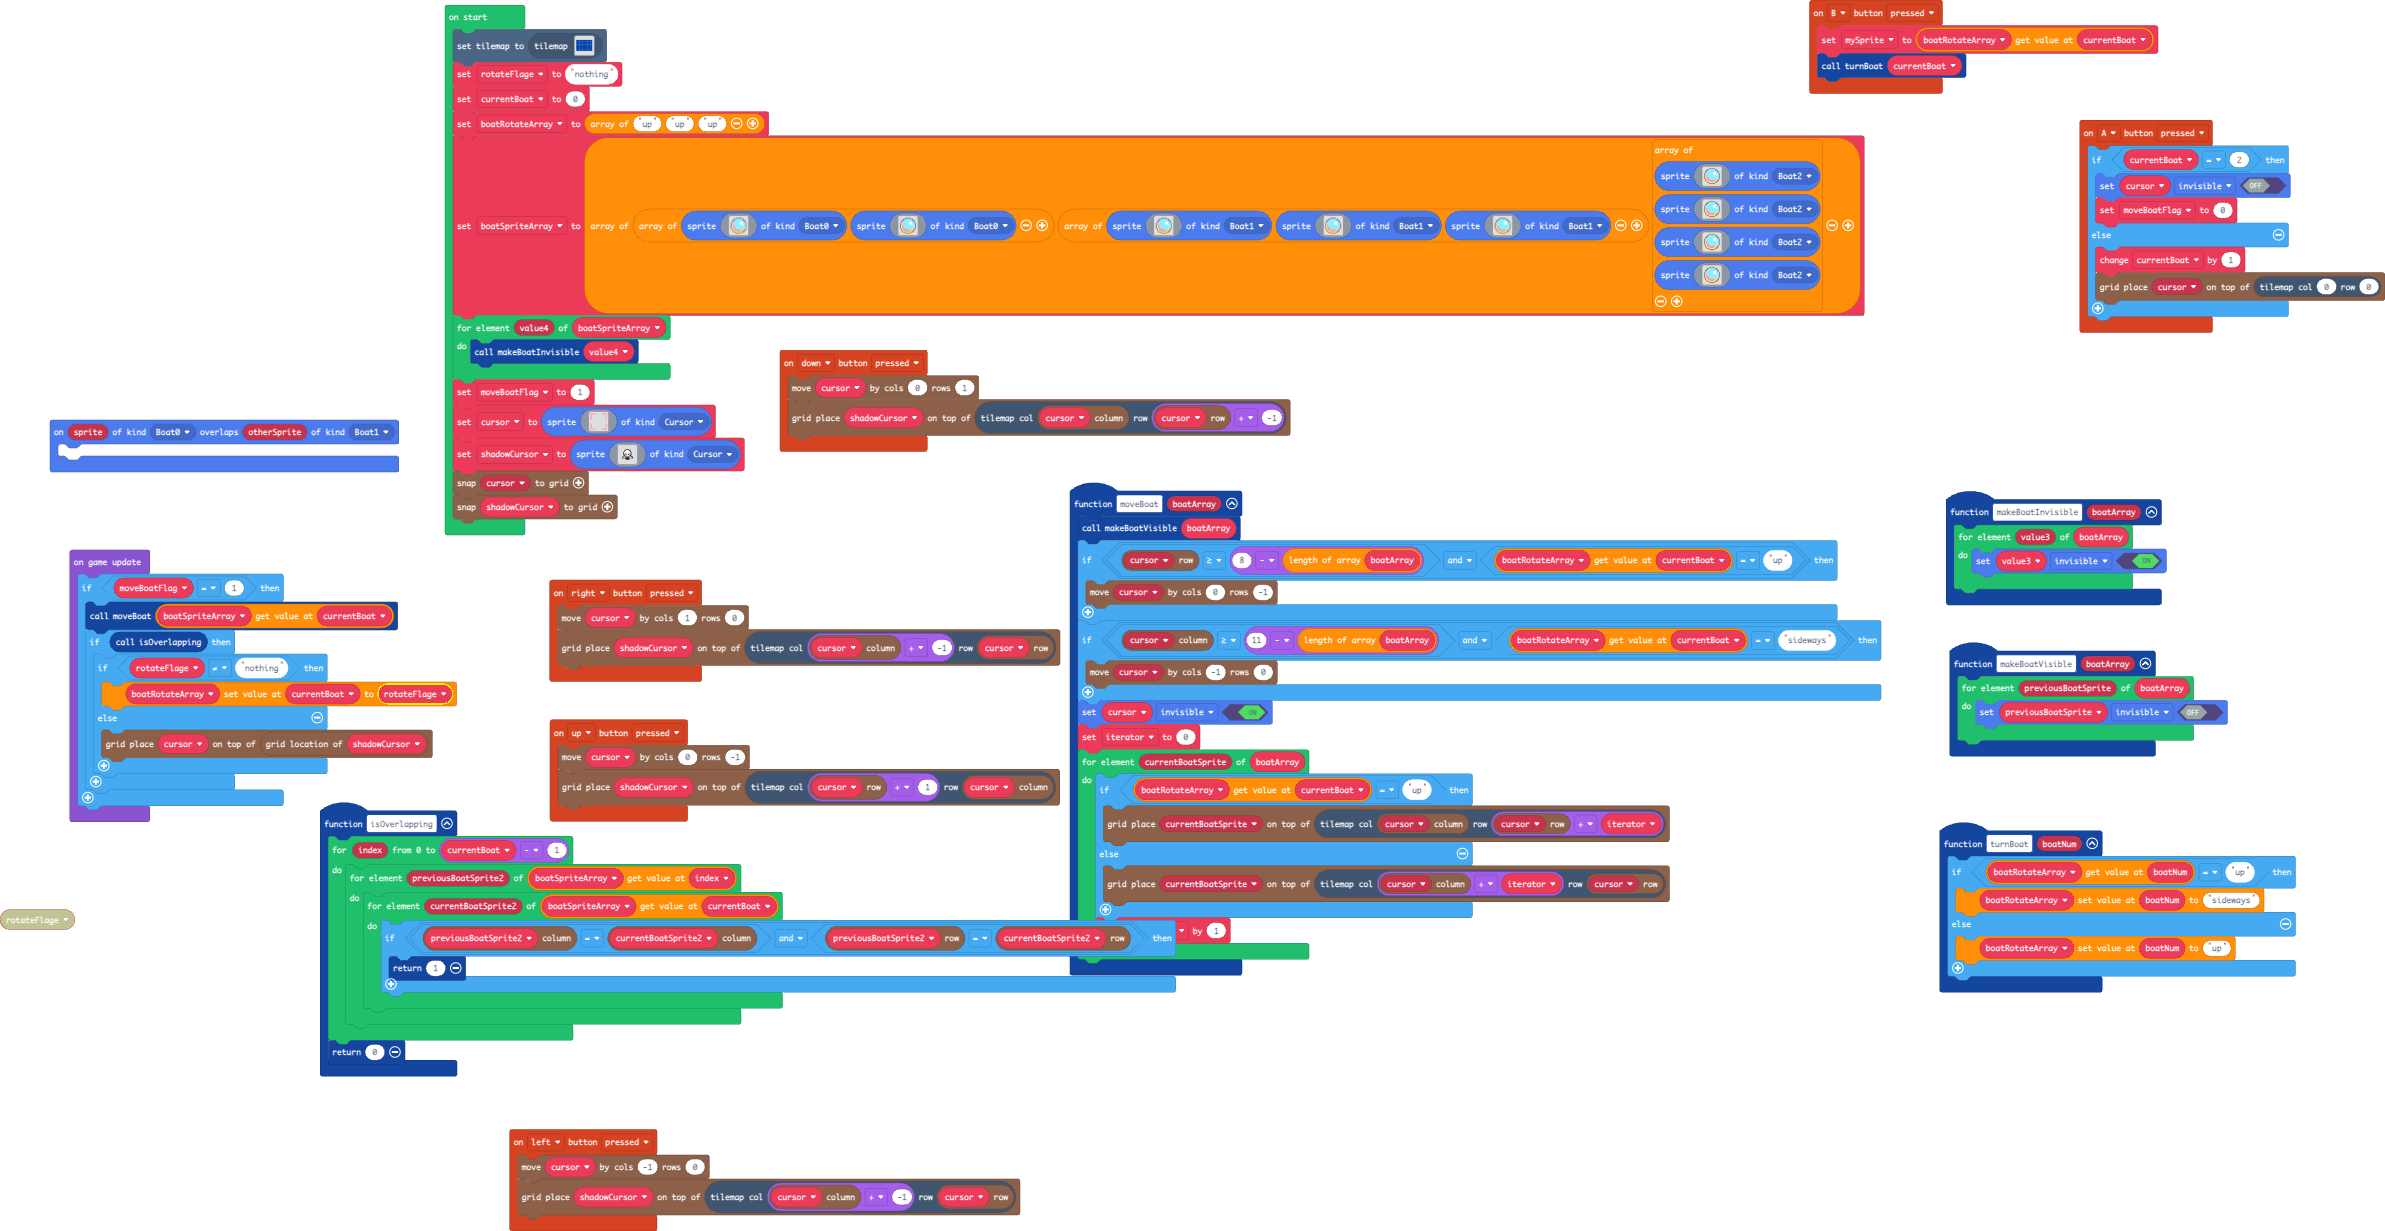
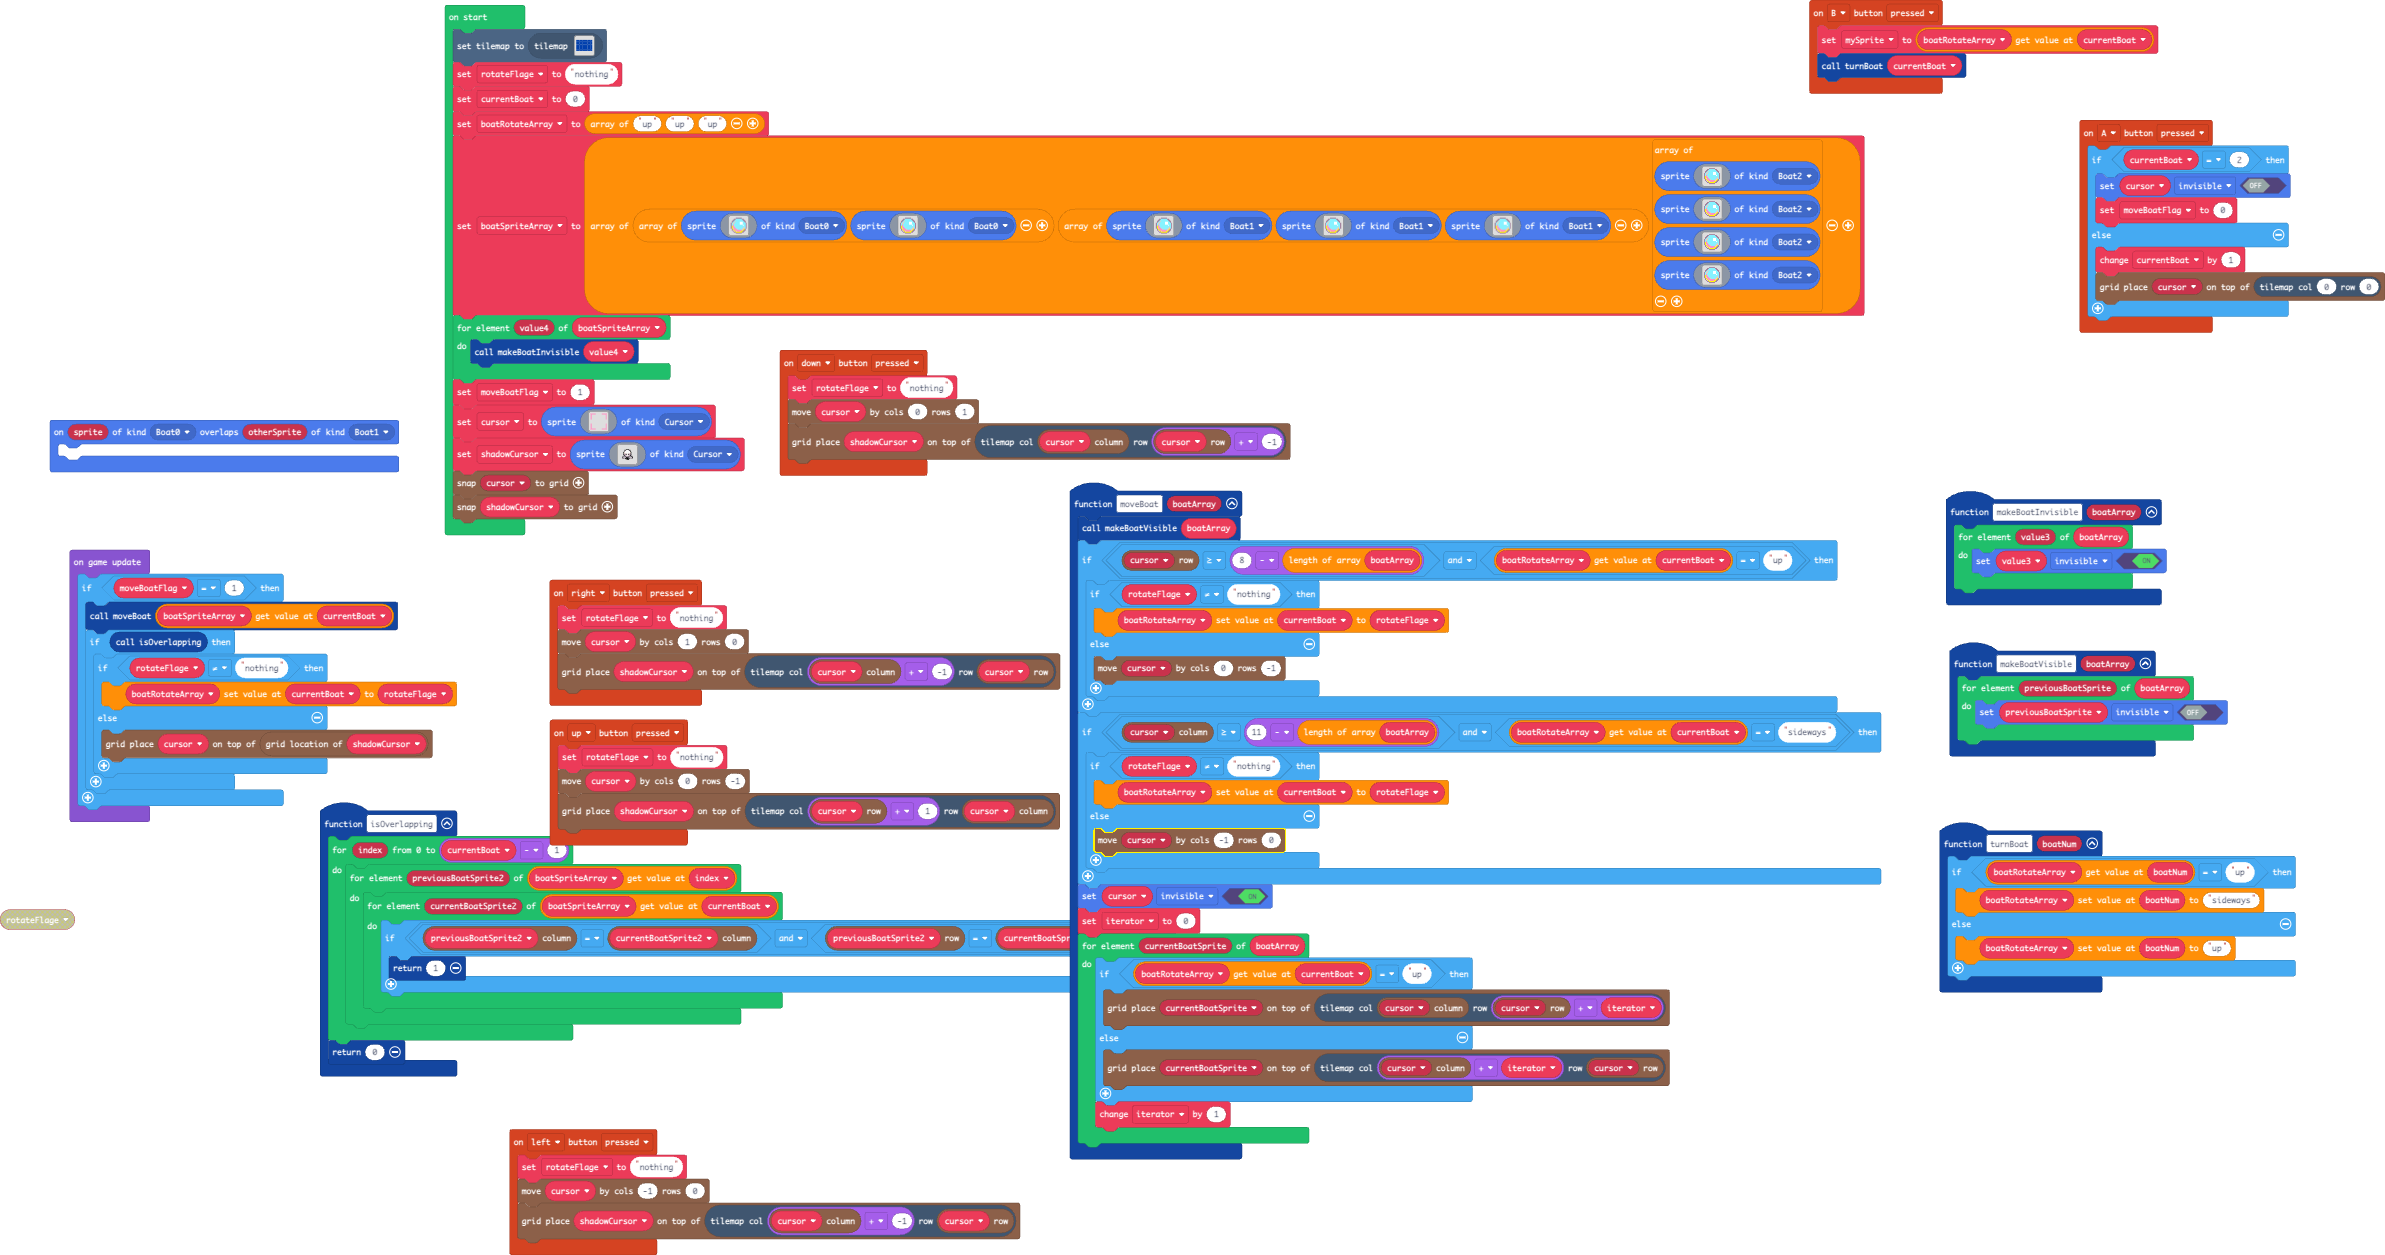
fixed rotate bug( bottom screen)

diff --git a/main.ts b/main.ts
@@ -5,6 +5,7 @@ namespace SpriteKind {
     export const Boat2 = SpriteKind.create()
 }
 controller.up.onEvent(ControllerButtonEvent.Pressed, function () {
+    rotateFlage = "nothing"
     grid.move(cursor, 0, -1)
     grid.place(shadowCursor, tiles.getTileLocation(grid.spriteRow(cursor) + 1, grid.spriteCol(cursor)))
 })
@@ -30,20 +31,30 @@ controller.A.onEvent(ControllerButtonEvent.Pressed, function () {
     }
 })
 controller.left.onEvent(ControllerButtonEvent.Pressed, function () {
+    rotateFlage = "nothing"
     grid.move(cursor, -1, 0)
     grid.place(shadowCursor, tiles.getTileLocation(grid.spriteCol(cursor) + -1, grid.spriteRow(cursor)))
 })
 controller.right.onEvent(ControllerButtonEvent.Pressed, function () {
+    rotateFlage = "nothing"
     grid.move(cursor, 1, 0)
     grid.place(shadowCursor, tiles.getTileLocation(grid.spriteCol(cursor) + -1, grid.spriteRow(cursor)))
 })
 function moveBoat (boatArray: any[]) {
     makeBoatVisible(boatArray)
     if (grid.spriteRow(cursor) >= 8 - boatArray.length && boatRotateArray[currentBoat] == "up") {
-        grid.move(cursor, 0, -1)
+        if (rotateFlage != "nothing") {
+            boatRotateArray[currentBoat] = rotateFlage
+        } else {
+            grid.move(cursor, 0, -1)
+        }
     }
     if (grid.spriteCol(cursor) >= 11 - boatArray.length && boatRotateArray[currentBoat] == "sideways") {
-        grid.move(cursor, -1, 0)
+        if (rotateFlage != "nothing") {
+            boatRotateArray[currentBoat] = rotateFlage
+        } else {
+            grid.move(cursor, -1, 0)
+        }
     }
     cursor.setFlag(SpriteFlag.Invisible, true)
     iterator = 0
@@ -57,6 +68,7 @@ function moveBoat (boatArray: any[]) {
     }
 }
 controller.down.onEvent(ControllerButtonEvent.Pressed, function () {
+    rotateFlage = "nothing"
     grid.move(cursor, 0, 1)
     grid.place(shadowCursor, tiles.getTileLocation(grid.spriteCol(cursor), grid.spriteRow(cursor) + -1))
 })
@@ -92,8 +104,9 @@ let moveBoatFlag = 0
 let boatSpriteArray: Sprite[][] = []
 let boatRotateArray: string[] = []
 let currentBoat = 0
+let rotateFlage = ""
 tiles.setCurrentTilemap(tilemap`level1`)
-let rotateFlage = "nothing"
+rotateFlage = "nothing"
 currentBoat = 0
 boatRotateArray = ["up", "up", "up"]
 boatSpriteArray = [[sprites.create(img`
